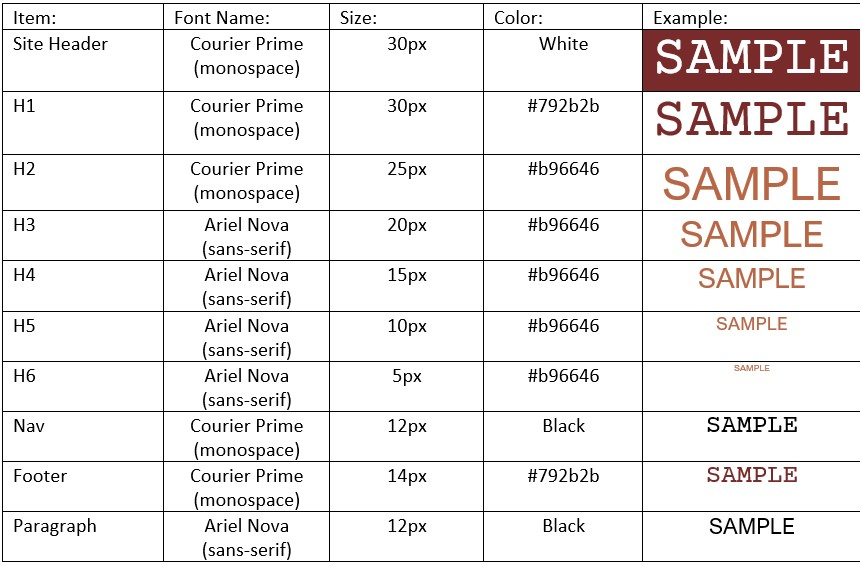
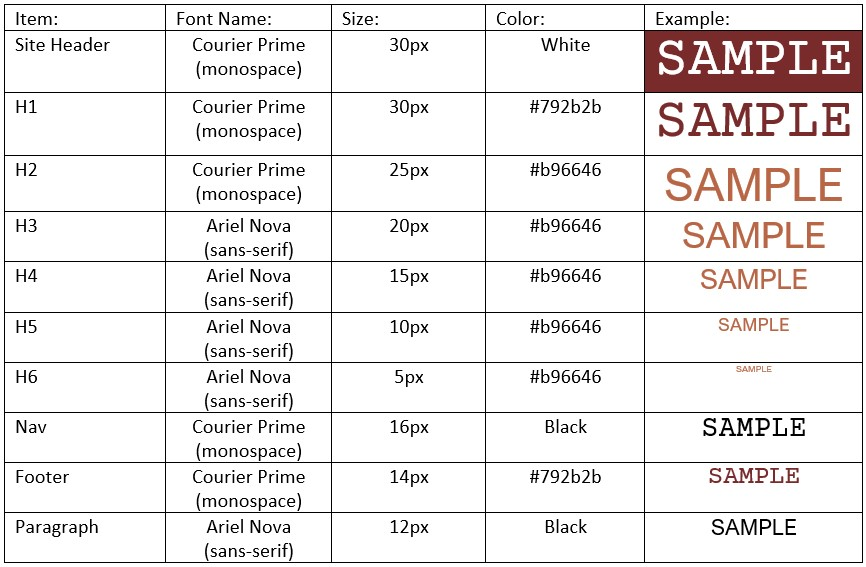
final changes

Changed region(s): [[0.0, 0.0, 1.0, 1.0], [0.6032, 0.4814, 0.6937, 0.5115], [0.0, 0.4513, 0.0603, 0.5115]]

diff --git a/lesson4/css/small.css b/lesson4/css/small.css
@@ -41,6 +41,7 @@ h1 {
     font-family: 'Courier New', Courier, monospace;
     color: white;
     text-shadow: 8px 8px 8px #792b2b;
+    margin:0;
 }
 
 h2 {
@@ -68,7 +69,6 @@ nav button {
 
 nav {
     font-family: Courier New, Courier, monospace;
-    font-size: 12px;
     font-weight: bold;
     background-image: linear-gradient(#b96646, #792b2b);
     text-align: center;
@@ -88,10 +88,9 @@ nav ul {
 nav ul li a {
     display: block;
     color: black;
-    text-align: center;
     padding: 20px;
     text-decoration: none;
-    font-size: 13px;
+    font-size: 16px;
     border-top: 1px solid rgba(0, 0, 0, 0.3);
 }
 

diff --git a/lesson4/css/large.css b/lesson4/css/large.css
@@ -8,13 +8,12 @@
     }
 
     nav ul li a {
-        border: none;
-        border-right: 1px solid aliceblue;
         padding: 0.6rem 1rem;
      }
 
     nav ul {
         margin-left: 2%;
+        font-size: 42px;
     }
 
     nav ul.hide {
@@ -27,6 +26,7 @@
     
     h1 {
         font-size: 35px;
+        margin: 1px;
     }
         
     #slogan {

diff --git a/lesson4/css/medium.css b/lesson4/css/medium.css
@@ -1,6 +1,7 @@
 @media only screen and (min-width: 35em) {
     h1 {
         font-size: 30px;
+        margin: 0px;
     }
     
     #slogan {
